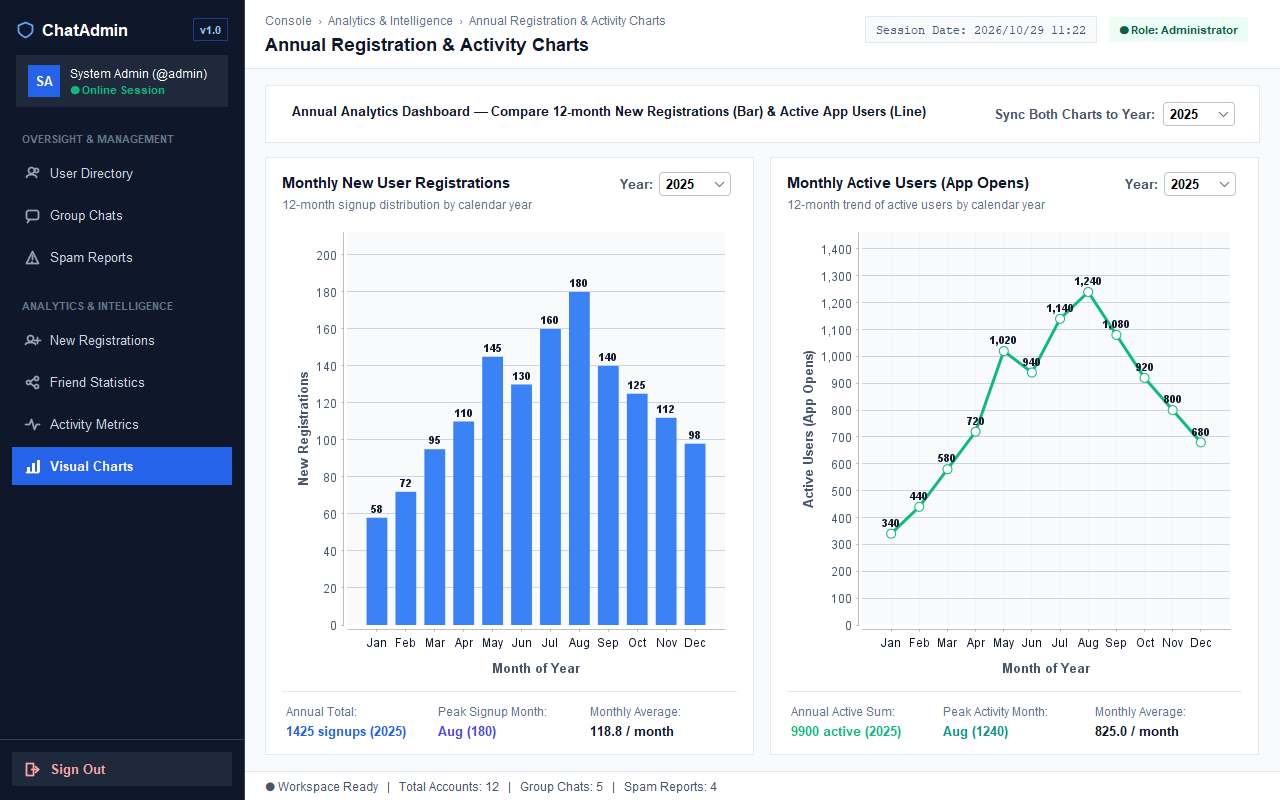
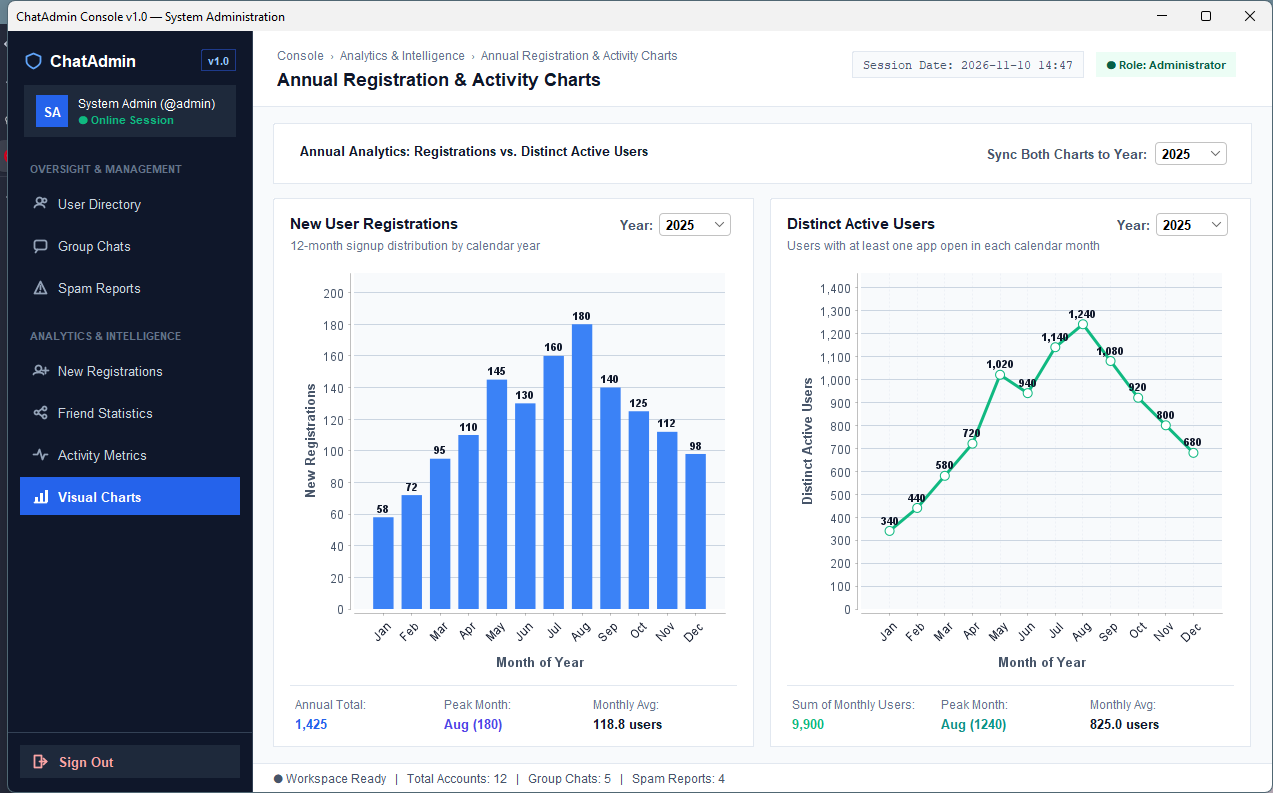
docs(screenshots): crop borders and re-audit v1 report images

diff --git a/docs/screenshots/screenshot-audit-v1.md b/docs/screenshots/screenshot-audit-v1.md
@@ -1,0 +1,109 @@
+# Screenshot audit V1
+
+Audit date: 2026-11-10. Branch: `feature/common-v2`.
+Scope: running Swing screenshots under `docs/screenshots/admin/` and `docs/screenshots/user/`. Outer desktop, parent-window strips, and drop shadow were cropped from the new and replaced files only. UI content inside each window was not edited.
+
+## A. Summary
+
+| Item | Count |
+| --- | ---: |
+| Screenshots audited (`admin/` + `user/`) | 30 |
+| Cropped | 12 |
+| Kept unchanged | 17 |
+| Excluded from the report | 13 |
+
+The 13 excluded images are `docs/screenshots/admin/03_user_management_panel.png` plus 12 design comps in `docs/mockups/`. They were inspected only to confirm they must not be cited.
+
+All 12 cropped PNGs reopen, keep their title bars, actions, tables, charts, and proof text, and no longer show a desktop strip outside the window.
+
+## B. Cropped files
+
+- `docs/screenshots/admin/01_main_frame_and_user_management.png` — 1447×793
+- `docs/screenshots/admin/10_registration_and_activity_charts.png` — 1273×793
+- `docs/screenshots/admin/11_user_form.png` — 704×553
+- `docs/screenshots/admin/12_reset_password.png` — 426×161
+- `docs/screenshots/admin/13_friend_network.png` — 1086×673
+- `docs/screenshots/user/03_forgot_password.png` — 506×354
+- `docs/screenshots/user/10_group_chat.png` — 1273×793
+- `docs/screenshots/user/13_change_password.png` — 466×383
+- `docs/screenshots/user/14_find_people.png` — 1493×793
+- `docs/screenshots/user/15_online_friends_create_group.png` — 1273×793
+- `docs/screenshots/user/16_create_group.png` — 546×593
+- `docs/screenshots/user/17_group_members.png` — 886×513
+
+Unchanged evidence: admin `02`, `04`, `05`, `06`, `07`, `08`, `09`; user `01`, `02`, `04`, `05`, `06`, `07`, `08`, `09`, `11`, `12_writting_agent.png`.
+
+## C. Coverage
+
+### Admin — 9 groups
+
+| ID | Requirement | Evidence | Result |
+| --- | --- | --- | --- |
+| ADMIN-01 | User directory: list, filter, sort, selected row, management actions | `admin/01_main_frame_and_user_management.png` | FULL |
+| ADMIN-01 form | Add / edit user form | `admin/11_user_form.png` | FULL |
+| ADMIN-01 reset | Reset-password dialog | `admin/12_reset_password.png` | FULL |
+| ADMIN-01 network | Friend network of the selected user | `admin/13_friend_network.png` | FULL |
+| ADMIN-02 | Login history | `admin/04_user_detail_history_dialog.png` | FULL |
+| ADMIN-03 | Group oversight | `admin/05_group_management_panel.png` | FULL |
+| ADMIN-04 | Spam reports | `admin/06_spam_report_panel.png` | FULL |
+| ADMIN-05 | New registrations | `admin/07_new_registration_panel.png` | FULL |
+| ADMIN-06 | 12-month registration chart | `admin/10_registration_and_activity_charts.png` | FULL |
+| ADMIN-07 | Friend statistics | `admin/08_friend_stats_panel.png` | FULL |
+| ADMIN-08 | User activity | `admin/09_user_activity_panel.png` | FULL |
+| ADMIN-09 | 12-month distinct-active-users chart | `admin/10_registration_and_activity_charts.png` | FULL |
+
+Admin sign-in is also covered by `admin/02_admin_login_dialog.png` (FULL). No admin group is MISSING.
+
+Checklist confirmation for the new and replaced admin shots:
+
+- `01`: user table, filter, status filter, sort, selected `@alex_turner`, Edit Profile, Lock Account, Reset Password, Deactivate User, View History & Network.
+- `11`: Edit User Profile with username, full name, email, date of birth, gender, address, Cancel, Save Changes.
+- `12`: Update / Reset User Password, one password field, OK, Cancel.
+- `13`: Friend Network & Connections, columns friend username, full name, mutual friends, presence status.
+- `10`: both 2025 charts, months Jan–Dec, registration and distinct-active-user axes.
+
+### User — 12 groups
+
+| ID | Requirement | Evidence | Result |
+| --- | --- | --- | --- |
+| USER-01 | Sign in | `user/01_user_login.png` | FULL |
+| USER-02 | Registration | `user/02_registration.png` | FULL |
+| USER-03 | Password recovery | `user/03_forgot_password.png` | FULL |
+| USER-04 | Change password | `user/13_change_password.png` | FULL |
+| USER-05 | Profile | `user/04_user_account.png` | FULL |
+| USER-06 | Direct chat | `user/07_chat.png` | FULL |
+| USER-07 | History search and remove chat | `user/08_search_history_and_remove_chat.png` | FULL |
+| USER-08 | Online friends and create-group entry | `user/15_online_friends_create_group.png` | FULL |
+| USER-09 | Find people and friend requests | `user/14_find_people.png`, `user/06_friend_request_and_search.png` | FULL |
+| USER-10 | Spam report | `user/11_spam_report.png` | FULL |
+| USER-11 | Writing assistant | `user/12_writting_agent.png` | FULL |
+| USER-12 | Groups: create, members/roles, encrypted prototype chat | `user/16_create_group.png`, `user/17_group_members.png`, `user/10_group_chat.png`, `user/09_groups.png` | FULL |
+
+`user/05_friend_lists.png` remains supporting evidence for the friend list. No user group is MISSING.
+
+Checklist confirmation for the new and replaced user shots:
+
+- `03`: email, future-tense recovery notice, Request Temporary Password, Back to Sign In.
+- `13`: Current password, New password, Confirm new password, Cancel, Confirm Sample Change.
+- `14`: search `quang`, result Võ Quang, Request Received, Message, Add to Group.
+- `15`: Show online only, two online friends, Create Group, Message, Remove Friend, Block.
+- `16`: group name, Standard Group and Encrypted Group, selected member, Create Sample Group.
+- `10`: Encrypted Study Circle, Encrypted Group (Prototype), V1 display disclaimer, sample message, Send Sample.
+- `17`: Alex Morgan ADMIN, Trần Minh MEMBER, Remove Admin Role, Make Admin, Remove from Group, Add Member.
+
+## D. Exclusions
+
+- `docs/screenshots/admin/03_user_management_panel.png` is a superseded duplicate of the old user-directory shot. Do not use it in the report.
+- Every image under `docs/mockups/` is a design comp, not a capture of the running client. Do not use those 12 files as evidence.
+
+## E. Result
+
+`READY FOR REPORT WITH WARNINGS`
+
+Warnings:
+
+- Cite only the files in section C. The excluded duplicate and the mockups are still in the tree.
+- Friend Network shows sample KPI text “18 Users” while the table lists 6 friends. The columns and rows are the evidence; the two numbers come from the sample data.
+- Find People proves search plus Request Received, Message, and Add to Group. Create Group is on the Friends screen, not on that search row.
+- Reset password is the real one-field dialog with OK and Cancel.
+- A few preserved sidebar labels still truncate “Online Session”. Those files were not recropped.
